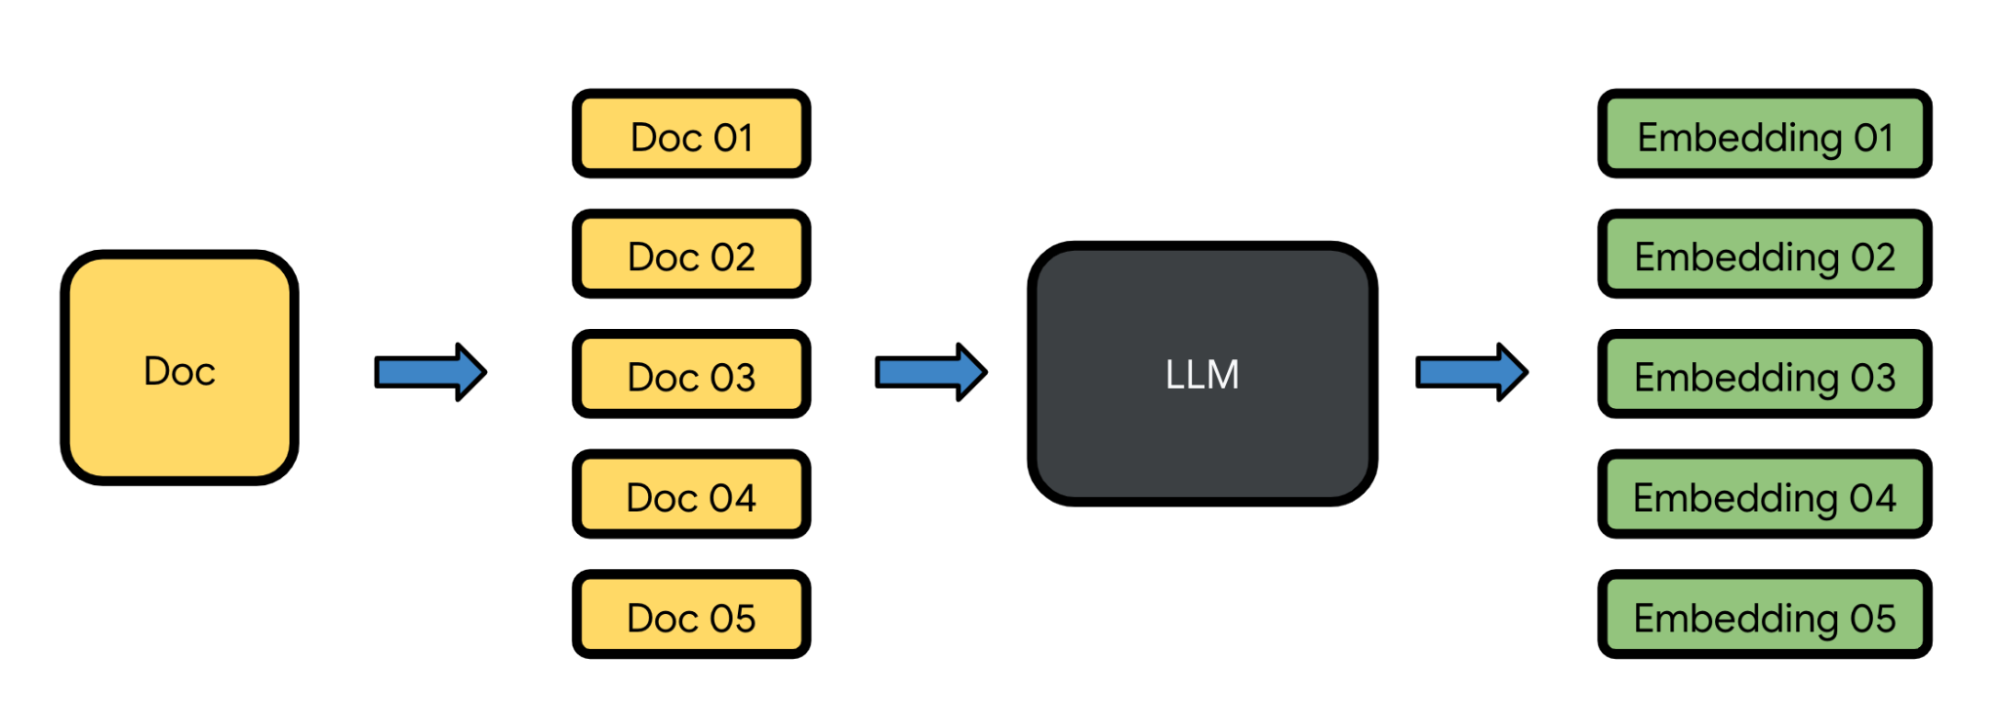
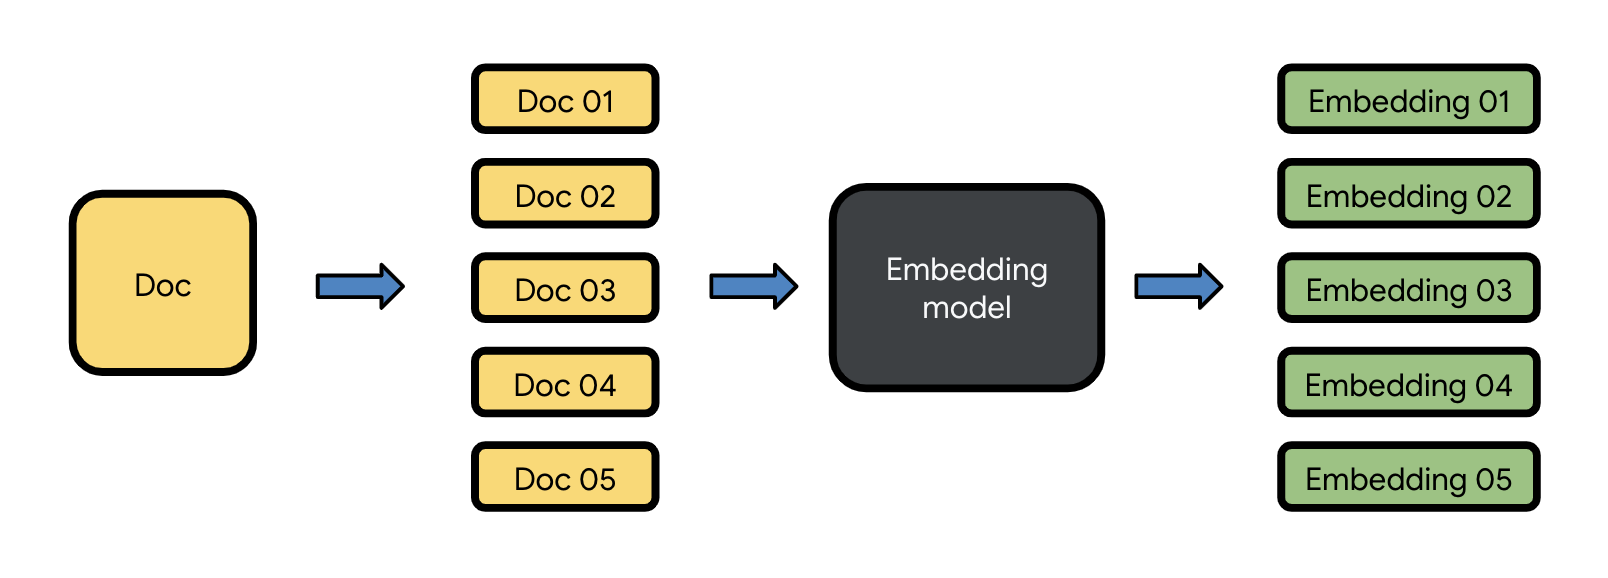
[Release] Docs Agent version 0.1.4 (#167)
What's changed:

- Bug fix: Update `docs_agent.py` to remove a no-longer-in-use error message variable.
- Clean up the prompt format in Docs Agent
  - Context is added to prompts as Markdown
  - Remove extra new lines in context
  - Add extra new lines after the instruction and before the question in prompts.
- Remove the warning message in the Chroma module, which as displayed
  when launching the chatbot.
- Update the embeddings diagrams in the main `README` file.
- Minor updates in the main `README` file.

Changed region(s): [[0.2799, 0.0934, 0.9639, 0.9343], [0.0311, 0.3114, 0.2488, 0.6851]]

diff --git a/demos/palm/python/docs-agent/chatbot/templates/chatui/result.html b/demos/palm/python/docs-agent/chatbot/templates/chatui/result.html
@@ -22,7 +22,7 @@
     <label for="handle1">Context</label>
   </h2>
   <div class="content">
-    {{ context | safe }}
+    {{ context_in_html | safe }}
     <span class="reference-content">
       <h4>Reference:</h4>
       {{ clickable_urls | safe }}

diff --git a/demos/palm/python/docs-agent/chatbot/chatui.py b/demos/palm/python/docs-agent/chatbot/chatui.py
@@ -143,13 +143,13 @@ def ask_model(question):
     # 3. Add the custom condition text to the context.
     # 4. Send the prompt (condition + context + question) to the language model.
     query_result = docs_agent.query_vector_store(question)
-    context = markdown.markdown(query_result.fetch_formatted(Format.CONTEXT))
-    context_with_prefix = docs_agent.add_instruction_to_context(context)
-    response = docs_agent.ask_text_model_with_context(context_with_prefix, question)
+    context = query_result.fetch_formatted(Format.CONTEXT)
+    context_with_instruction = docs_agent.add_instruction_to_context(context)
+    response = docs_agent.ask_text_model_with_context(context_with_instruction, question)
 
     ### PROMPT 2: FACT-CHECK THE PREVIOUS RESPONSE.
     fact_checked_response = docs_agent.ask_text_model_to_fact_check(
-        context_with_prefix, response
+        context_with_instruction, response
     )
 
     ### PROMPT 3: GET 5 RELATED QUESTIONS.
@@ -176,10 +176,12 @@ def ask_model(question):
 
     ### PREPARE OTHER ELEMENTS NEEDED BY UI.
     # - Create a uuid for this request.
+    # - Convert the context returned from the database into HTML for rendering.
     # - Convert the first response from the model into HTML for rendering.
     # - Convert the fact-check response from the model into HTML for rendering.
     # - A workaround to get the server's URL to work with the rewrite and like features.
     new_uuid = uuid.uuid1()
+    context_in_html = markdown.markdown(context)
     response_in_html = markdown.markdown(response)
     fact_checked_response_in_html = markdown.markdown(fact_checked_response)
     server_url = request.url_root.replace("http", "https")
@@ -190,7 +192,7 @@ def ask_model(question):
     return render_template(
         "chatui/index.html",
         question=question,
-        context=context,
+        context_in_html=context_in_html,
         response=response,
         response_in_html=response_in_html,
         clickable_urls=clickable_urls,

diff --git a/demos/palm/python/docs-agent/chroma.py b/demos/palm/python/docs-agent/chroma.py
@@ -69,9 +69,9 @@ class Chroma:
             )
         elif embedding_model is None or embedding_model == "palm/embedding-gecko-001":
             if embedding_model is None:
-                logging.warning(
-                    "Embedding model is not stored in the metadata of "
-                    "the collection %s. Using PaLM as default.",
+                logging.info(
+                    "Embedding model is not specified in the metadata of "
+                    "the collection %s. Using the default PaLM embedding model.",
                     name,
                 )
             palm = PaLM(embed_model="models/embedding-gecko-001", find_models=False)
@@ -138,7 +138,7 @@ class ChromaQueryResultItem:
 
     def format(self, format_type: Format, ref_index: int = None):
         d = {
-            "document": self.document,
+            "document": self.document.strip(),
             "ref_index": ref_index,
             "url": self.metadata.get("url", None),
             "distance": self.distance,

diff --git a/demos/palm/python/docs-agent/docs_agent.py b/demos/palm/python/docs-agent/docs_agent.py
@@ -73,7 +73,7 @@ class DocsAgent:
 
     # Use this method for talking to PaLM (Text)
     def ask_text_model_with_context(self, context, question):
-        new_prompt = f"{context}\nQuestion: {question}"
+        new_prompt = f"{context}\n\nQuestion: {question}"
         try:
             response = palm.generate_text(
                 prompt=new_prompt,
@@ -101,7 +101,7 @@ class DocsAgent:
             return self.model_error_message
 
         if response.last is None:
-            return self.palm_none_response
+            return self.model_error_message
         return response.last
 
     # Use this method for asking PaLM (Text) for fact-checking
@@ -117,5 +117,5 @@ class DocsAgent:
     # Add specific instruction as a prefix to the context
     def add_instruction_to_context(self, context):
         new_context = ""
-        new_context += self.prompt_condition + "\n" + context
+        new_context += self.prompt_condition + "\n\n" + context
         return new_context

diff --git a/demos/palm/python/docs-agent/scripts/read_config.py b/demos/palm/python/docs-agent/scripts/read_config.py
@@ -43,11 +43,11 @@ class ReadConfig:
             with open(INPUT_YAML, "r", encoding="utf-8") as inp_yaml:
                 self.config_values = yaml.safe_load(inp_yaml)
                 self.IS_CONFIG_FILE = True
-                print("Configuration defined in: " + INPUT_YAML)
+                print("Reading the config file: " + INPUT_YAML)
                 # Check that the required keys exist
                 self.validateKeys()
         except FileNotFoundError:
-            print("The file " + INPUT_YAML + " does not exist.")
+            print("The config file " + INPUT_YAML + " does not exist.")
             # Exits the scripts if there is no valid config file
             return sys.exit(1)
 

diff --git a/demos/palm/python/docs-agent/README.md b/demos/palm/python/docs-agent/README.md
@@ -125,6 +125,10 @@ The following list summarizes the tasks and features of the Docs Agent sample ap
   the responses. (See the
   [Enabling users to submit a rewrite of a generated response][submit-a-rewrite] and
   [Enabling users to like generated responses][like-generate-responses] sections.)
+- **Convert Google Docs, PDF, and Gmail into Markdown files**: This feature uses
+  Apps Script to convert Google Docs, PDF, and Gmail into Markdown files, which then
+  can be used as input datasets for Docs Agent. For more information, see the
+  [`README`][apps-script-readme] file in the `apps_script` directory.
 
 ## Flow of events
 
@@ -205,10 +209,10 @@ by the PaLM model:
 - Additional condition (for fact-checking):
 
   ```
-  Can you compare the following text to the context provided in this prompt and write
-  a short message that warns the readers about which part of the text they should
-  consider fact-checking? (Please keep your response concise and focus on only
-  one important item.)
+  Can you compare the text below to the context provided
+  in this prompt above and write a short message that warns the readers about
+  which part of the text they should consider fact-checking? (Please keep your
+  response concise and focus on only one important item.)"
   ```
 
 - Previously generated response
@@ -597,20 +601,18 @@ To launch the Docs Agent chat app, do the following:
 
    ```
    $ poetry run ./chatbot/launch.sh
-   This script starts your flask app in a virtual environment
-   Installing all dependencies through pip...
-   Using the local vector database created at /home/alice/generative-ai-docs/demos/palm/python/docs-agent/vector_database
-   Using embedded DuckDB with persistence: data will be stored in: /home/alice/generative-ai-docs/demos/palm/python/docs-agent/vector_database
+   Reading the config file: /home/alice/docs-agent/config.yaml
+   Reading the config file: /home/alice/docs-agent/config.yaml
     * Serving Flask app 'chatbot'
     * Debug mode: on
-   WARNING: This is a development server. Do not use it in a production deployment. Use a production WSGI server instead.
+   INFO:werkzeug:WARNING: This is a development server. Do not use it in a production deployment. Use a production WSGI server instead.
     * Running on http://example.com:5000
-   Press CTRL+C to quit
-    * Restarting with stat
-   Using the local vector database created at /home/alice/generative-ai-docs/demos/palm/python/docs-agent/vector_database
-   Using embedded DuckDB with persistence: data will be stored in: /home/alice/generative-ai-docs/demos/palm/python/docs-agent/vector_database
-    * Debugger is active!
-    * Debugger PIN: 129-640-957
+   INFO:werkzeug:Press CTRL+C to quit
+   INFO:werkzeug: * Restarting with stat
+   Reading the config file: /home/alice/docs-agent/config.yaml
+   Reading the config file: /home/alice/docs-agent/config.yaml
+   WARNING:werkzeug: * Debugger is active!
+   INFO:werkzeug: * Debugger PIN: 825-594-989
    ```
 
    Notice the line that shows the URL of this server (`http://example.com:5000` in
